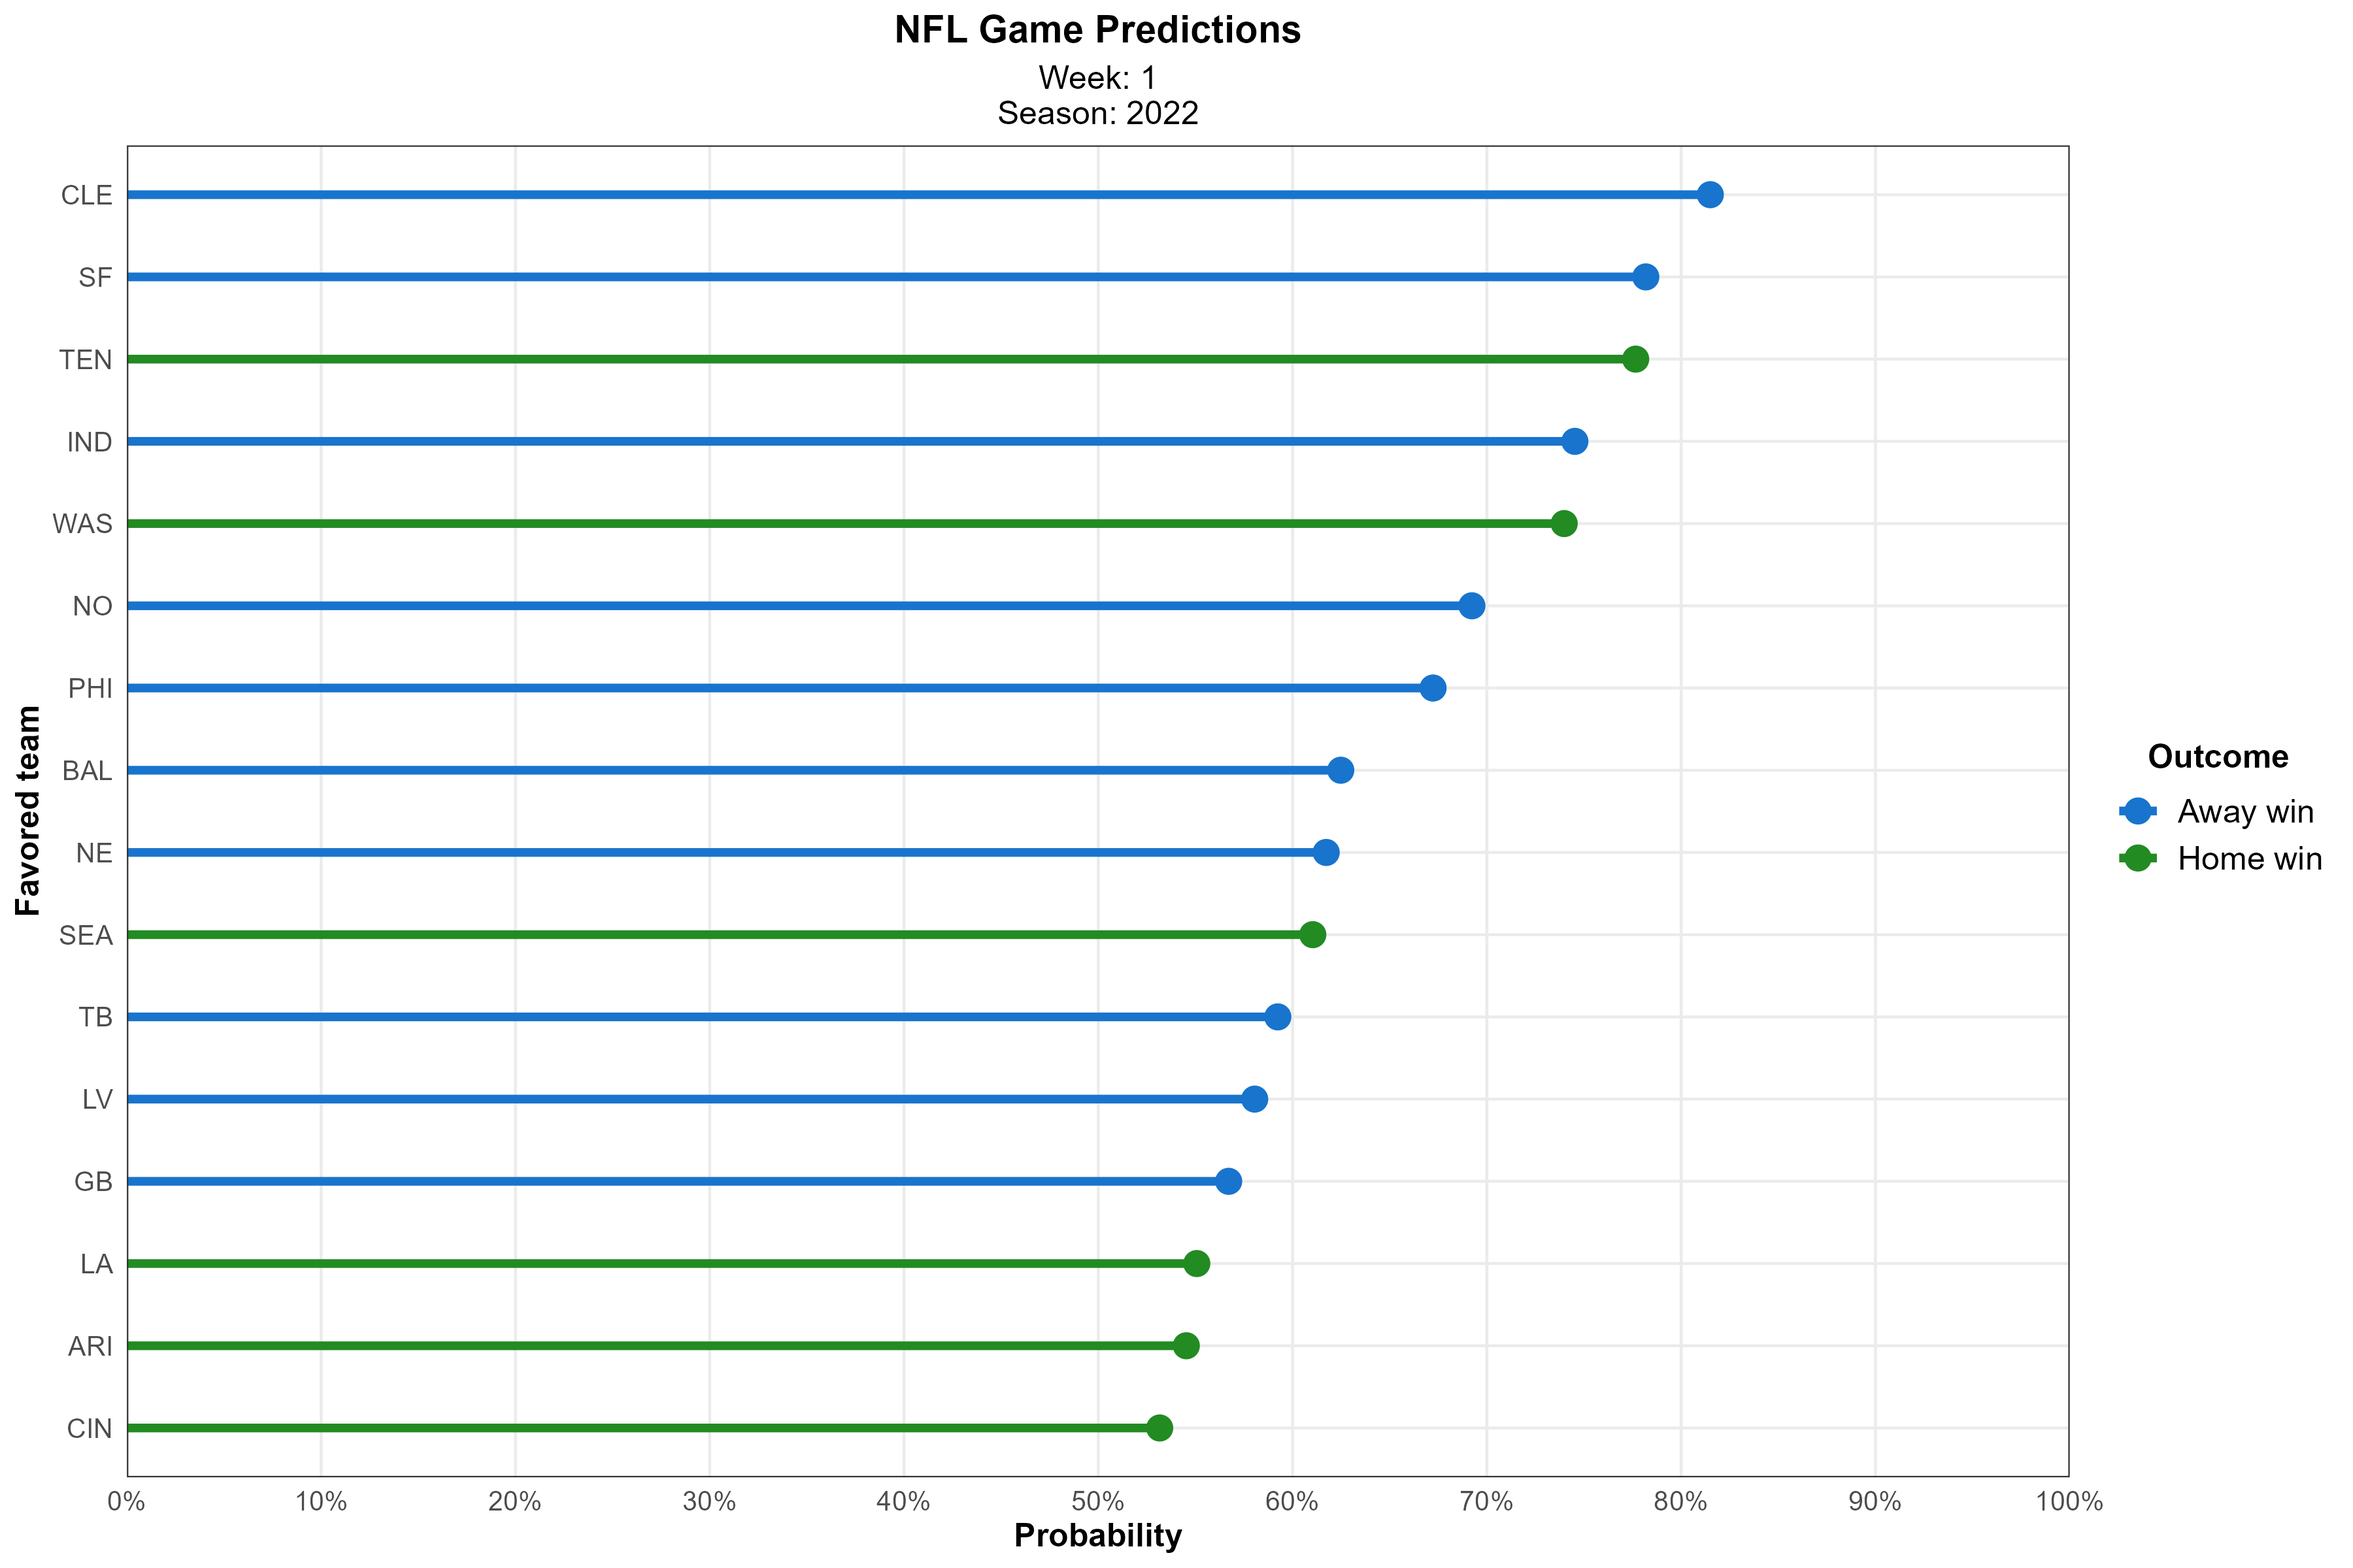
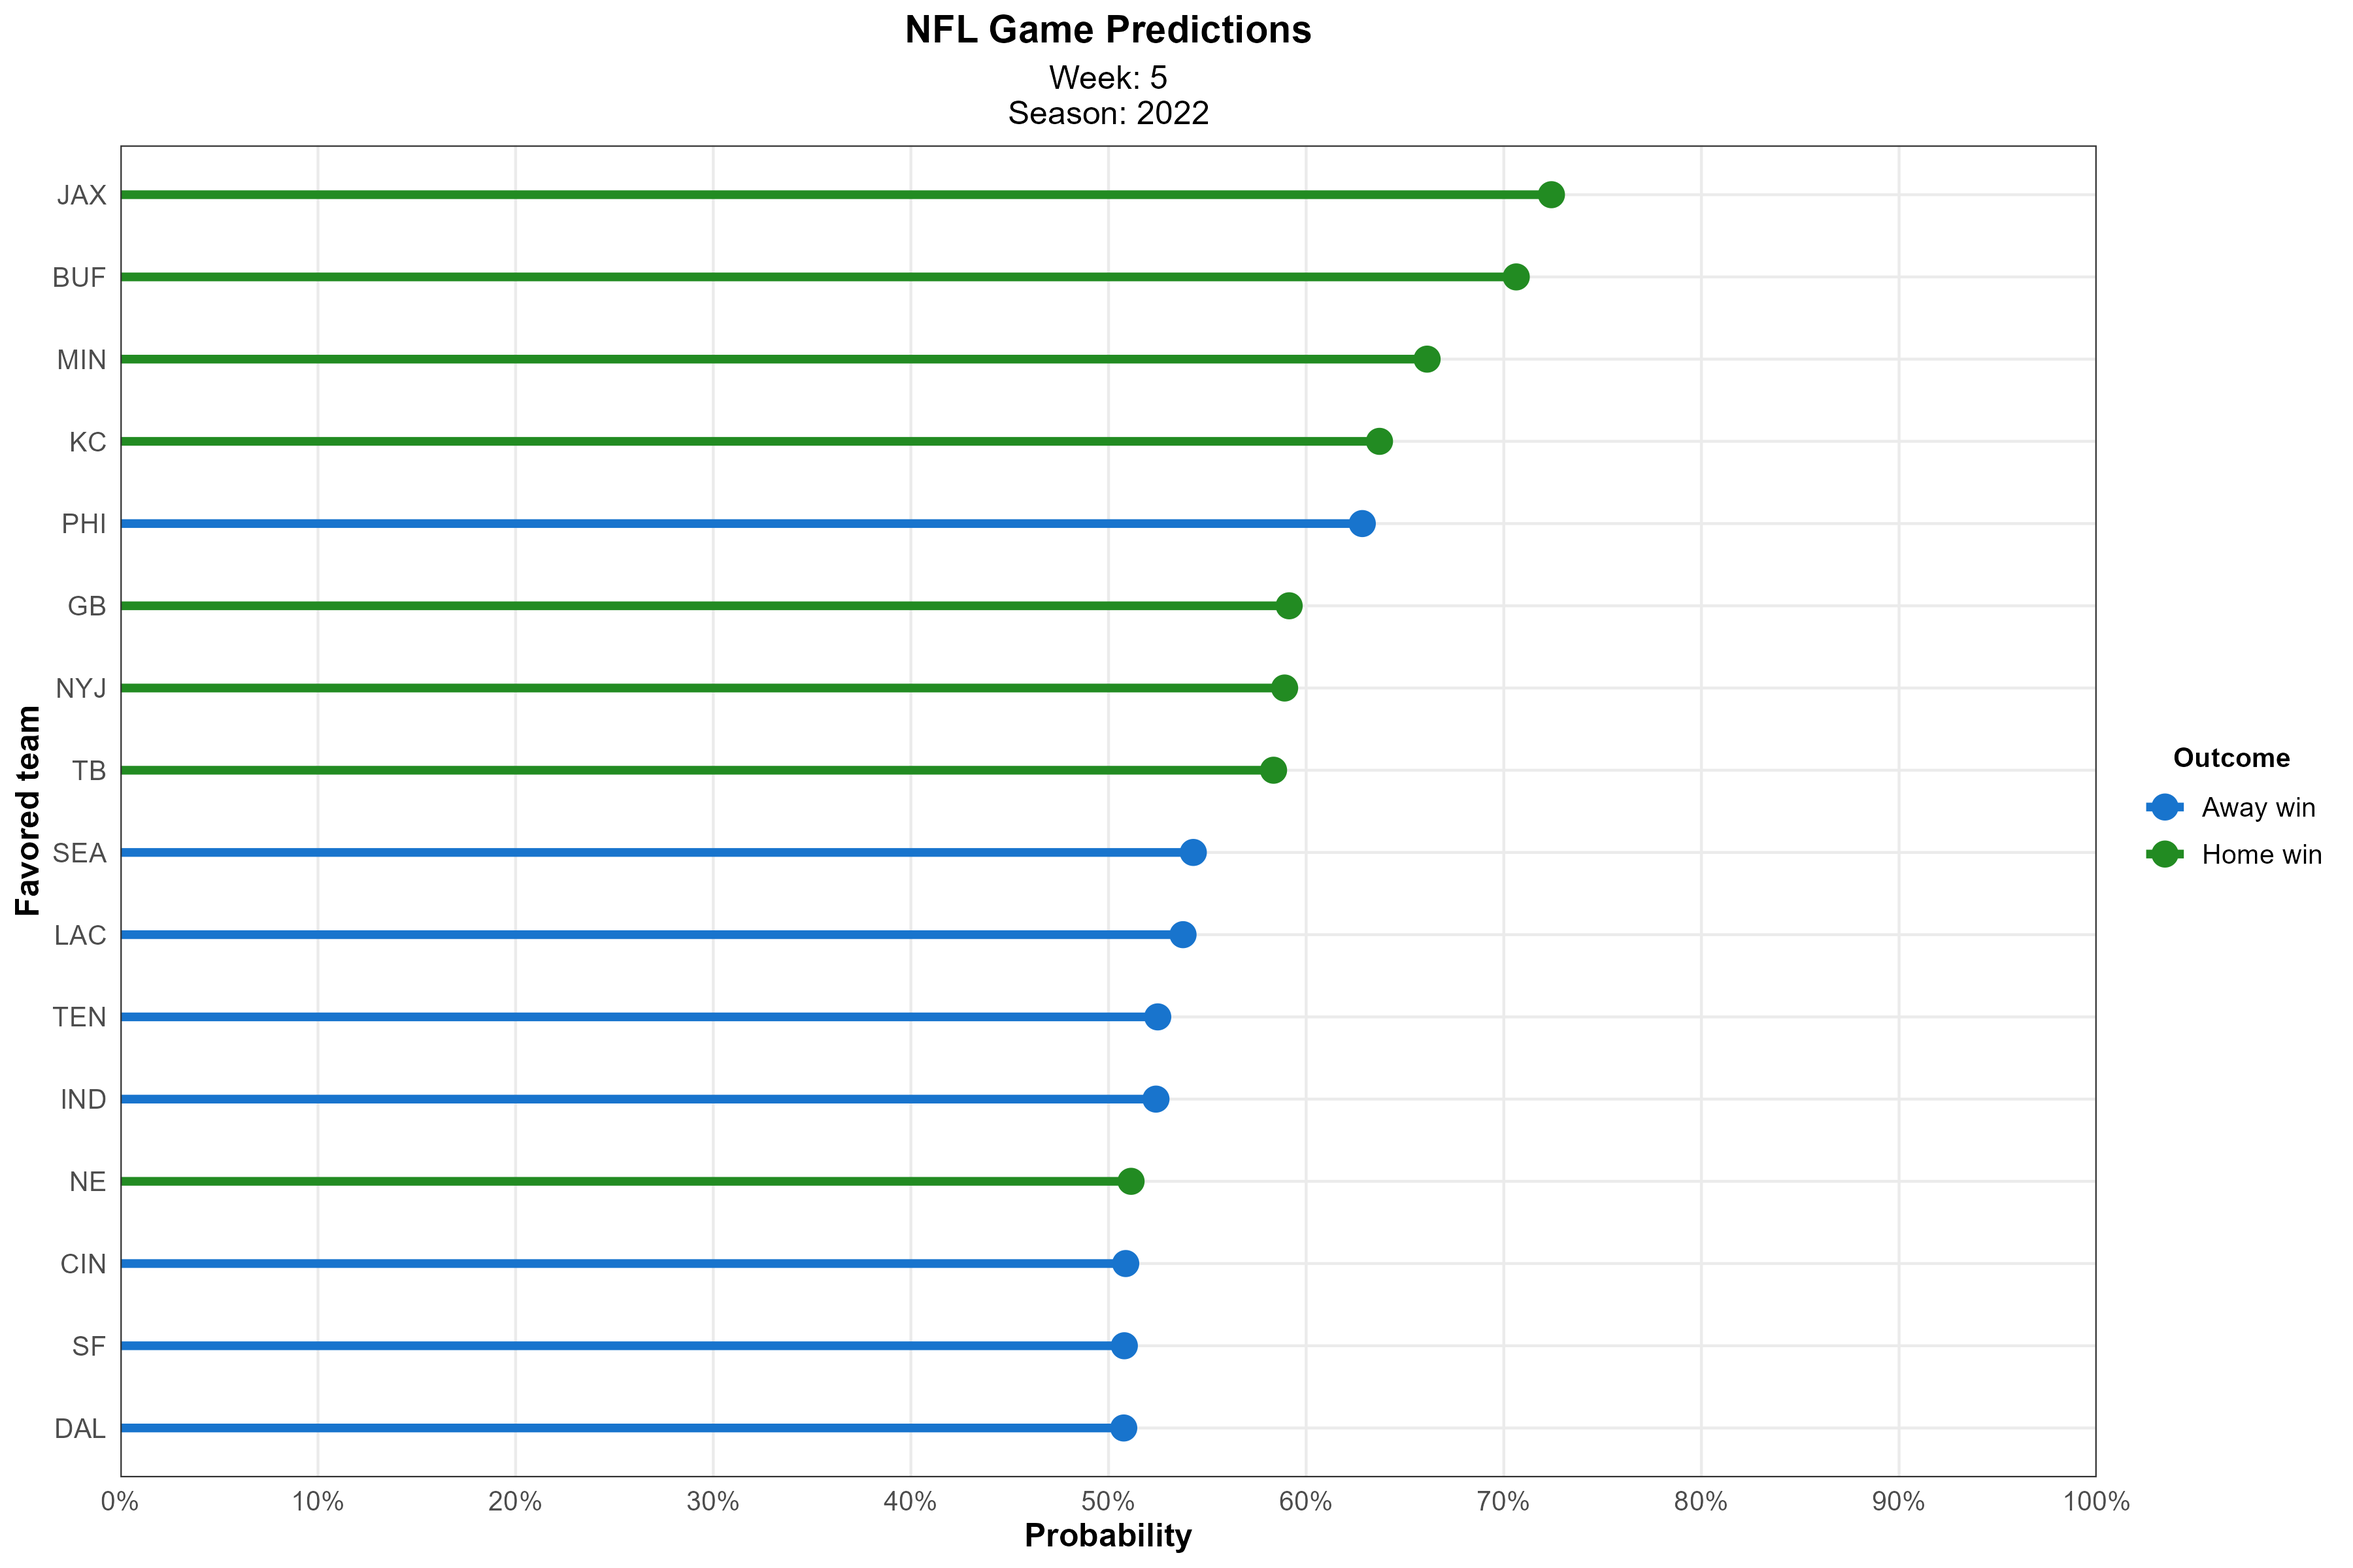
update readme

diff --git a/README.md b/README.md
@@ -22,17 +22,18 @@ Details</a>
 
 <hr>
 
-The `nflpredictr` R package provides a lightweight R package that
-provides predictions for upcoming (and past) NFL games. `nflpredictr`
-provides four main things:
+The `nflpredictr` R package provides a lightweight R client for
+retrieving predictions for upcoming (and past) NFL games via the [NFL
+Win Predictor API](http://68.183.25.9:8000/__docs__/). Details on the
+model used to make the predictions can be found
+[here](https://anguswg-ucsb.github.io/nfl_wins/)
 
-1.  Retrieves new data to use an inputs into a [ML model trained to
-    predict the outcomes of NFL
-    games](https://anguswg-ucsb.github.io/nfl_wins/)
-2.  Generate predictions using the new data
-3.  Visualize results.
-4.  Retrieve Las Vegas Odds and lines to compare with the predictions
-    generated from `nflpredictr`
+`nflpredictr` provides four main functionalities: 1. Retrieves new data
+to use as the inputs into a [ML model trained to predict the outcomes of
+NFL games](https://anguswg-ucsb.github.io/nfl_wins/) 2. Provide the new
+data to the [API](http://68.183.25.9:8000/__docs__/) and return
+predictions 3. Visualize results. 4. Retrieve Las Vegas Odds and lines
+to compare with the predictions generated from `nflpredictr`
 
 <hr>
 
@@ -58,45 +59,113 @@ make a prediction for the upcoming week of the current NFL season
 
 ``` r
 # Load package
-# library(nflpredictr)
+library(nflpredictr)
 
 # Make an API request using predict_games(), default week is the upcoming week of the season
-# nflpredictr::predict_games(
-#   year = 2022
-#   )
+nflpredictr::predict_games(
+  year = 2022,
+  week = 5
+  )
+#> 
+#> 
+#> Sending request to nflwinpredictor API...
+#> Request URL:
+#> http://68.183.25.9:8000/predict-new-data?year=2022&pred_week=5
+#> # A tibble: 16 × 8
+#>    season  week game_id         home_team away_team win   home_win_prob away_w…¹
+#>     <int> <int> <chr>           <chr>     <chr>     <chr>         <dbl>    <dbl>
+#>  1   2022     5 2022_05_HOU_JAX JAX       HOU       1             0.724    0.276
+#>  2   2022     5 2022_05_PIT_BUF BUF       PIT       1             0.706    0.294
+#>  3   2022     5 2022_05_CHI_MIN MIN       CHI       1             0.661    0.339
+#>  4   2022     5 2022_05_LV_KC   KC        LV        1             0.637    0.363
+#>  5   2022     5 2022_05_NYG_GB  GB        NYG       1             0.591    0.409
+#>  6   2022     5 2022_05_MIA_NYJ NYJ       MIA       1             0.589    0.411
+#>  7   2022     5 2022_05_ATL_TB  TB        ATL       1             0.584    0.416
+#>  8   2022     5 2022_05_DET_NE  NE        DET       1             0.511    0.489
+#>  9   2022     5 2022_05_DAL_LA  LA        DAL       0             0.492    0.508
+#> 10   2022     5 2022_05_SF_CAR  CAR       SF        0             0.492    0.508
+#> 11   2022     5 2022_05_CIN_BAL BAL       CIN       0             0.491    0.509
+#> 12   2022     5 2022_05_IND_DEN DEN       IND       0             0.476    0.524
+#> 13   2022     5 2022_05_TEN_WAS WAS       TEN       0             0.475    0.525
+#> 14   2022     5 2022_05_LAC_CLE CLE       LAC       0             0.462    0.538
+#> 15   2022     5 2022_05_SEA_NO  NO        SEA       0             0.457    0.543
+#> 16   2022     5 2022_05_PHI_ARI ARI       PHI       0             0.372    0.628
+#> # … with abbreviated variable name ¹away_win_prob
 ```
 
 <br>
 
 ## Make predictions on past games
 
-Predictions can also be requested for past weeks, going back to the 2016
-season
+Predictions can also be requested for weeks of past NFL seasons, going
+as far back as the 2016 season.
 
 ``` r
 # Make an API request using predict_games() for a specific year and week
-# nflpredictr::predict_games(
-#   year = 2017,
-#   week = 8
-#   )
+nflpredictr::predict_games(
+  year = 2018,
+  week = 8
+  )
+#> 
+#> 
+#> Sending request to nflwinpredictor API...
+#> Request URL:
+#> http://68.183.25.9:8000/predict-new-data?year=2018&pred_week=8
+#> # A tibble: 14 × 8
+#>    season  week game_id         home_team away_team win   home_win_prob away_w…¹
+#>     <int> <int> <chr>           <chr>     <chr>     <chr>         <dbl>    <dbl>
+#>  1   2018     8 2018_08_GB_LA   LA        GB        1             0.758    0.242
+#>  2   2018     8 2018_08_CLE_PIT PIT       CLE       1             0.729    0.271
+#>  3   2018     8 2018_08_NYJ_CHI CHI       NYJ       1             0.683    0.317
+#>  4   2018     8 2018_08_DEN_KC  KC        DEN       1             0.650    0.350
+#>  5   2018     8 2018_08_MIA_HOU HOU       MIA       1             0.639    0.361
+#>  6   2018     8 2018_08_SF_ARI  ARI       SF        1             0.563    0.437
+#>  7   2018     8 2018_08_TB_CIN  CIN       TB        1             0.561    0.439
+#>  8   2018     8 2018_08_BAL_CAR CAR       BAL       1             0.555    0.445
+#>  9   2018     8 2018_08_SEA_DET DET       SEA       1             0.552    0.448
+#> 10   2018     8 2018_08_NO_MIN  MIN       NO        1             0.524    0.476
+#> 11   2018     8 2018_08_PHI_JAX JAX       PHI       0             0.440    0.560
+#> 12   2018     8 2018_08_WAS_NYG NYG       WAS       0             0.406    0.594
+#> 13   2018     8 2018_08_IND_LV  LV        IND       0             0.397    0.603
+#> 14   2018     8 2018_08_NE_BUF  BUF       NE        0             0.317    0.683
+#> # … with abbreviated variable name ¹away_win_prob
 ```
 
-## Plot the teams favored to win that week
+## Make a tile plot of win probabilities
 
 `nflpredictr` contains a few functions for quick plotting the outputs
-from `predict_games()`. The `plot_favored()` function will plot the
-teams favored by the NFL Win Prediction API model in order of win
-probability.
+from `predict_games()`. The `plot_tile()` function will plot each match
+up side by side on a tile plot and color code teams by their predicted
+win probability from the NFL Win Prediction API.
 
 ``` r
 # Plot the outputs from predict_games()
-# fav_plot <- nflpredictr::plot_favored(
-#   predictions = nflpredictr::predict_games(
-#     year = 2022,
-#     week = 1
-#   ),
-#   prob_alpha  = FALSE
-#   )
+tile_plot <- nflpredictr::plot_tile(
+                  predictions = nflpredictr::predict_games(
+                    year = 2022,
+                    week = 5
+                  )
+              )
+```
+
+<img src="man/figures/tile_plot.png" align="center" height = "100%" width="100%" />
+
+<br>
+
+## Plot the teams favored to win that week
+
+The `plot_favored()` function will plot the teams favored by the NFL Win
+Prediction API model in order of win probability.
+
+``` r
+# Plot the outputs from predict_games()
+fav_plot <- nflpredictr::plot_favored(
+                predictions = nflpredictr::predict_games(
+                                  year = 2022,
+                                  week = 5
+                                ),
+                prob_alpha  = FALSE
+                )
 ```
 
 <img src="man/figures/plot_fav.png" align="center" height = "100%" width="100%" />
@@ -109,7 +178,30 @@ The `get_vegas()` function will retrieve Vegas spreads, money lines, and
 totals for the current season
 
 ``` r
-# vegas_odds <- nflpredictr::get_vegas()
-# 
-# vegas_odds
+vegas_odds <- nflpredictr::get_vegas()
+#> Retrieving Las Vegas betting odds...
+#> URL: 4
+#> Date input: 2022-10-07
+#> Retrieving dates of NFL weeks: 2022
+
+vegas_odds
+#> # A tibble: 15 × 10
+#>    season  week game_id    date       home_…¹ away_…² favored spread   win total
+#>     <dbl> <dbl> <chr>      <date>     <chr>   <chr>     <dbl>  <dbl> <dbl> <dbl>
+#>  1   2022     5 2022_05_N… 2022-10-09 GB      NYG           1   -9    -380    41
+#>  2   2022     5 2022_05_A… 2022-10-09 TB      ATL           1  -10    -480    46
+#>  3   2022     5 2022_05_C… 2022-10-09 MIN     CHI           1   -7.5  -360    44
+#>  4   2022     5 2022_05_D… 2022-10-09 NE      DET           1   -3    -170    46
+#>  5   2022     5 2022_05_H… 2022-10-09 JAX     HOU           1   -7    -340    44
+#>  6   2022     5 2022_05_L… 2022-10-09 CLE     LAC           0    2     115    47
+#>  7   2022     5 2022_05_M… 2022-10-09 NYJ     MIA           0    3.5   150    46
+#>  8   2022     5 2022_05_P… 2022-10-09 BUF     PIT           1  -14    -950    46
+#>  9   2022     5 2022_05_S… 2022-10-09 NO      SEA           1   -5.5  -235    46
+#> 10   2022     5 2022_05_T… 2022-10-09 WAS     TEN           0    1.5   110    43
+#> 11   2022     5 2022_05_S… 2022-10-09 CAR     SF            0    7     230    39
+#> 12   2022     5 2022_05_D… 2022-10-09 LA      DAL           1   -5.5  -235    43
+#> 13   2022     5 2022_05_P… 2022-10-09 ARI     PHI           0    5     190    49
+#> 14   2022     5 2022_05_C… 2022-10-09 BAL     CIN           1   -3.5  -175    48
+#> 15   2022     5 2022_05_L… 2022-10-10 KC      LV            1   -7    -340    51
+#> # … with abbreviated variable names ¹home_team, ²away_team
 ```
